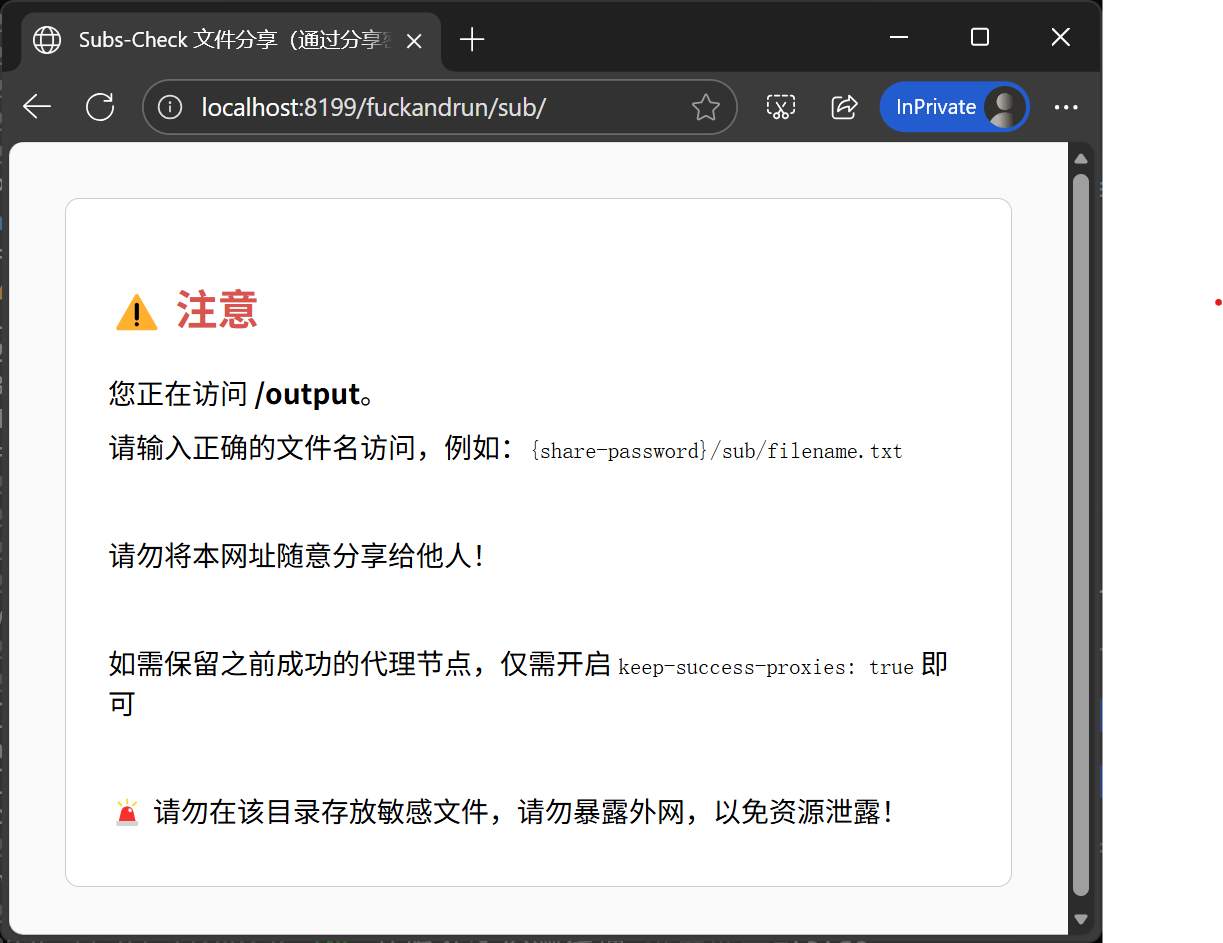
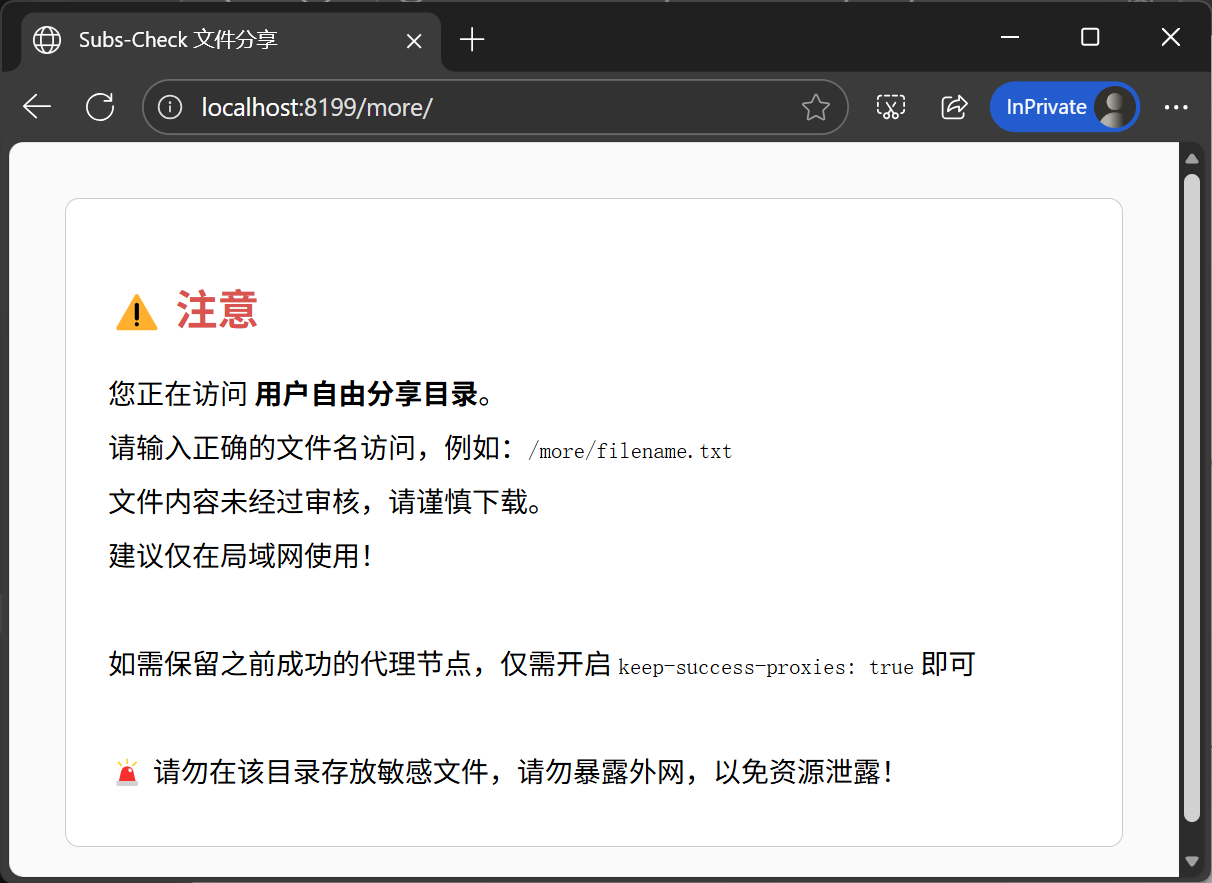
chore: 更新用户访问信息和doc截图

diff --git a/app/templates/admin.html b/app/templates/admin.html
@@ -136,6 +136,7 @@
               <div class="list-item" id="share" title="V2Ray、Mihomo 、Singbox订阅地址" style="cursor:pointer;">分享订阅</div>
               <div class="list-item" id="downloadLogsBtnSide" title="下载运行日志" style="cursor:pointer;">下载日志</div>
               <div class="list-item" id="project-info" title="查看项目地址，加群交流" style="cursor:pointer;">项目信息</div>
+              <!-- TODO: 一键添加sub-store后端地址到前端 -->
             </div>
           </div>
           <div class="sidebar-bottom">

diff --git a/app/server.go b/app/server.go
@@ -96,7 +96,7 @@ func (app *App) initHTTPServer() error {
 <body>
     <div class="box">
         <h2>⚠️ 注意</h2>
-        <p>您正在访问 <b>/output</b>。</p>
+        <p>您正在访问 <b>/output/</b>。</p>
         <p>请输入正确的文件名访问，例如：<code>{share-password}/sub/filename.txt</code></p>
 		</br>
 		<p>请勿将本网址随意分享给他人！</p>
@@ -151,7 +151,6 @@ func (app *App) initHTTPServer() error {
         <h2>⚠️ 注意</h2>
         <p>您正在访问 <b>用户自由分享目录</b>。</p>
         <p>请输入正确的文件名访问，例如：<code>/more/filename.txt</code></p>
-        <p>文件内容未经过审核，请谨慎下载。</p>
 		<p>建议仅在局域网使用！</p>
 		</br>
 		<p>如需保留之前成功的代理节点，仅需开启 <code>keep-success-proxies: true</code> 即可</p>